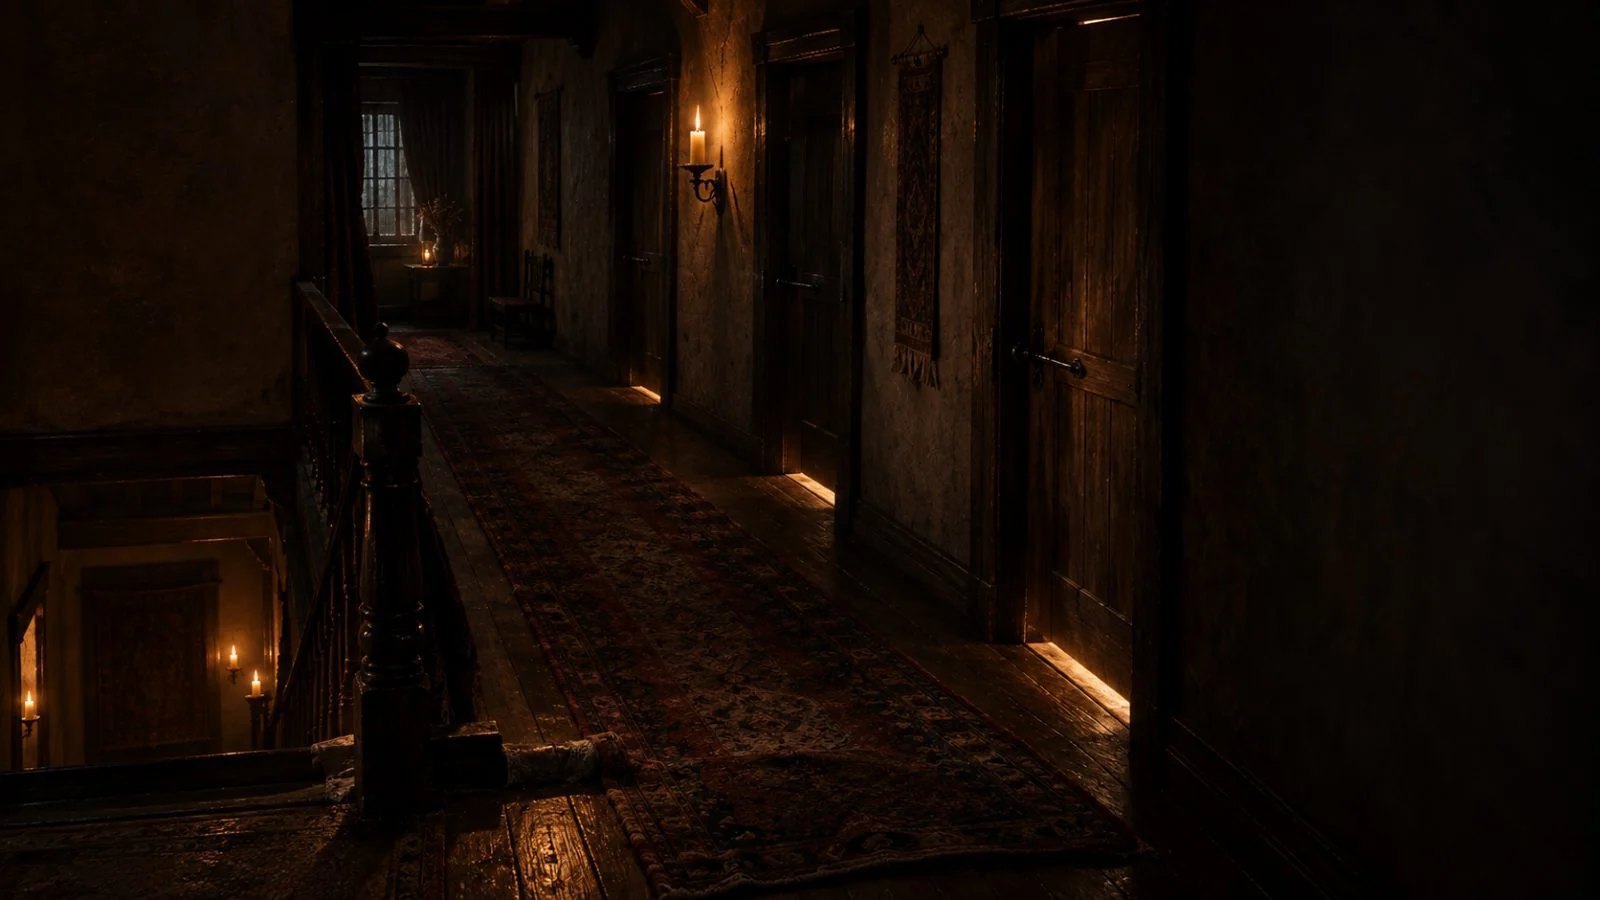
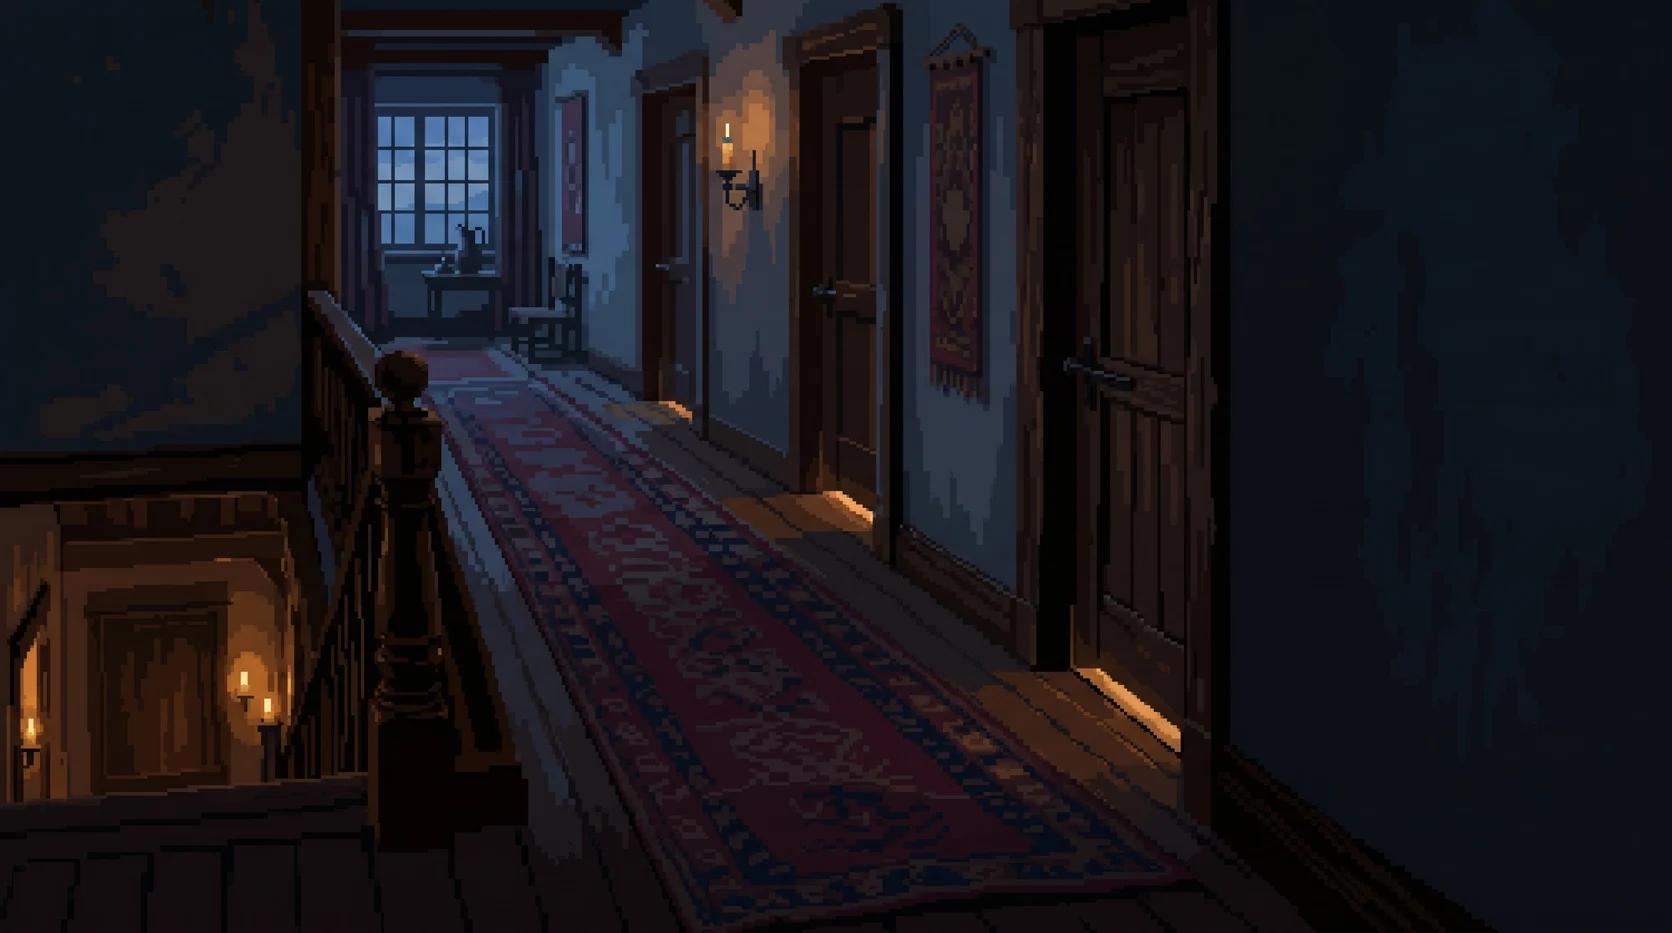
ПОРТ: коридор и комната Нии «Синего часа» в спокойном пикселе (4 из 48)
Claude-Session: https://claude.ai/code/session_01AohsHedWdkfggLZ7wdatry

diff --git a/Игры/Порт/ДОСКА.md b/Игры/Порт/ДОСКА.md
@@ -153,7 +153,7 @@
 | Р21 | **Пролог (третья версия 12.11, по отзыву автора «ролик стрёмный, перебор с плёнкой, звук хрипит, музыка не та, текст странный — 3/10»).** Видео убрано совсем. Один пиксельный кадр прибытия оживает: вода колышется (пиксели воды и отражения огней построчно, 12 кадров в секунду), камера медленно подходит; без растра, зерна и цветокоррекции. Текст как в комиксе: рассказ — бумажной подписью в углу кадра, реплика — облаком с головой говорящего (грузчик — временная голова с фото-кандидата `Ресурсы/Лица/port_gruzchik_golova.webp`, ждёт живописного пикселя, Р23). Бросок швартова — физика каната (стравливается с руки, ложится на борт, петля на тумбу / в воду / за тумбу). Разговор — камера подходит к причалу, на «схоронили» кадр темнеет и музыка уходит в тишину; «Ты не знал.» в темноте → выбор начала. Звук: синтезированный шум моря убран (он хрипел), под рассказом — тема доков. Код `Движок/пролог.js`, строки `Данные/вступление.js`, тест `пролог.mjs`. **Ждёт автора:** оценка третьей версии; лицо грузчика (старшого) в живописном пикселе; озвучка (13.11) — ключа ElevenLabs у автора нет, делаем открытыми моделями в контейнере: синтез Piper (или Silero), проверка распознаванием faster-whisper. Тексты с тегами — `Данные/озвучка-пролога.js`, сверка слов с субтитрами — в `пролог.mjs`. В окружение «Телефон» уже добавлены Hugging Face и Silero; **ещё нужны два адреса — `us.aws.cdn.hf.co` (файлы моделей) и `download-r2.pytorch.org` (PyTorch для Silero)**, подтвердить можно только с ПК. Потом — доска проб (по 3–4 голоса, спокойно и с эмоцией) и выбор автора; вопросы истории В65–В70 | Вступление |
 | Р22 | **Линия Уны Марш — отложено автором 12.11, доделать потом.** У Уны теперь портрет (`Ресурсы/Лица/port_una_marsh_art.webp`: невинное закрытое платье, покрывало, ухмылка, рука у пряди). Автор хочет полноценную запретную любовную линию, не четыре намёка. Черновой ход в 10 шагов (свеча, ниша с книгами, исповедальня, город без покрывала, ставни под дождём, поминальный день 20-го, слух, Второй журнал, отъезд) и вопросы В71–В74 (насколько далеко, почему нельзя, финал, возраст) — в Редакторе, `Канон/Редактор/01_Ждёт_тебя.md`. Диалоги не писать, пока автор не ответит | Чат 12.11, портреты |
 | Р23 | **Портреты в живописный пиксель — идёт 12.11.** Все лица переводятся из фото в стиль Мэсти через Gemini (новый чат на каждый, пурпурный фон, 2–3 попытки на сходство), вырезка — `Скрипты/вырезать_портрет.py`, файл `*_art.webp`, в данных `портрет:` переключается на него. Страница с промтами — `Игры/Сайт/portrety.html` (сборка `Скрипты/portrety_page.py`). Готово: Нора, Сиб, Старшая, Ния, Уна. Ждут: остальные 21 из 26, у 35 жителей портрета нет совсем | Чат 12.11, портреты |
-| Р24 | **Фоны в спокойный пиксель — начато 13.11.** Эталон — `Ресурсы/Быт/вдова.webp` (выбор автора из 10). 48 фонов: 28 фонов мест, плюс отмеченные автором (пристань у трапа, кухня после смены, торговый и маяк — бледные, улица финала) и похожие на них (доки, работы, пролог, город). Страница с промтами — `Игры/Сайт/fony.html` (сборка `Скрипты/fony_page.py`), палитры общие с портретами (`Скрипты/palitry.py`). Готово: 2 из 48 — крыльцо и общий зал «Синего часа» (старые — `Источники_Арта/Альтернативы/`) | Чат 13.11, фоны |
+| Р24 | **Фоны в спокойный пиксель — начато 13.11.** Эталон — `Ресурсы/Быт/вдова.webp` (выбор автора из 10). 48 фонов: 28 фонов мест, плюс отмеченные автором (пристань у трапа, кухня после смены, торговый и маяк — бледные, улица финала) и похожие на них (доки, работы, пролог, город). Страница с промтами — `Игры/Сайт/fony.html` (сборка `Скрипты/fony_page.py`), палитры общие с портретами (`Скрипты/palitry.py`). Готово: 4 из 48 — крыльцо, общий зал, коридор и комната Нии «Синего часа» (старые — `Источники_Арта/Альтернативы/`) | Чат 13.11, фоны |
 
 ## 2. Ждёт вычитки или текста автора
 
